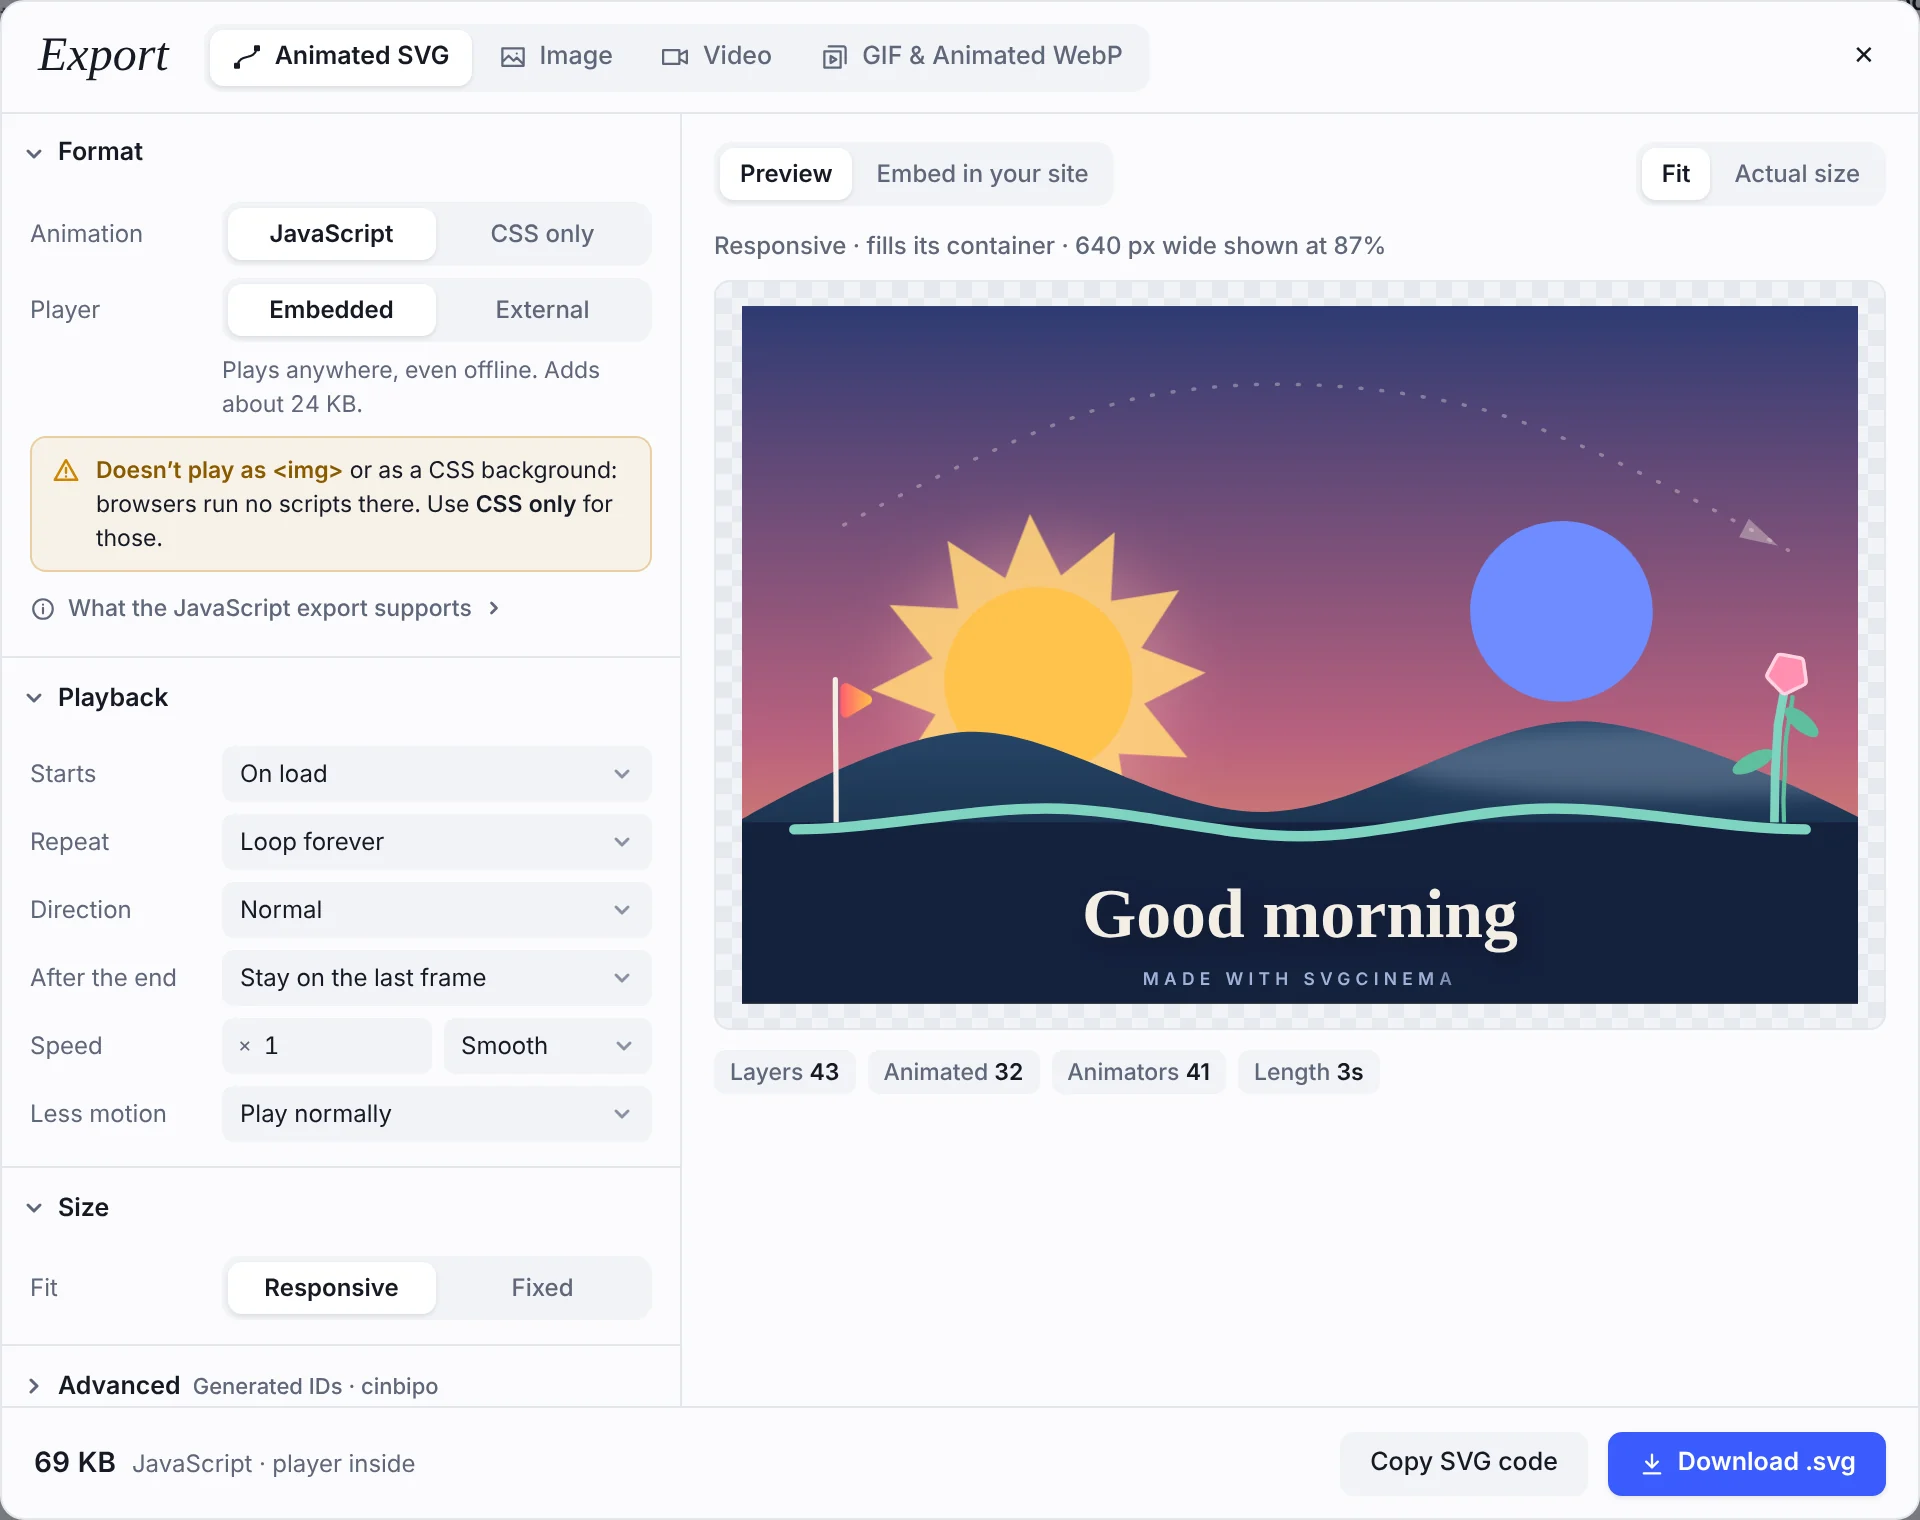
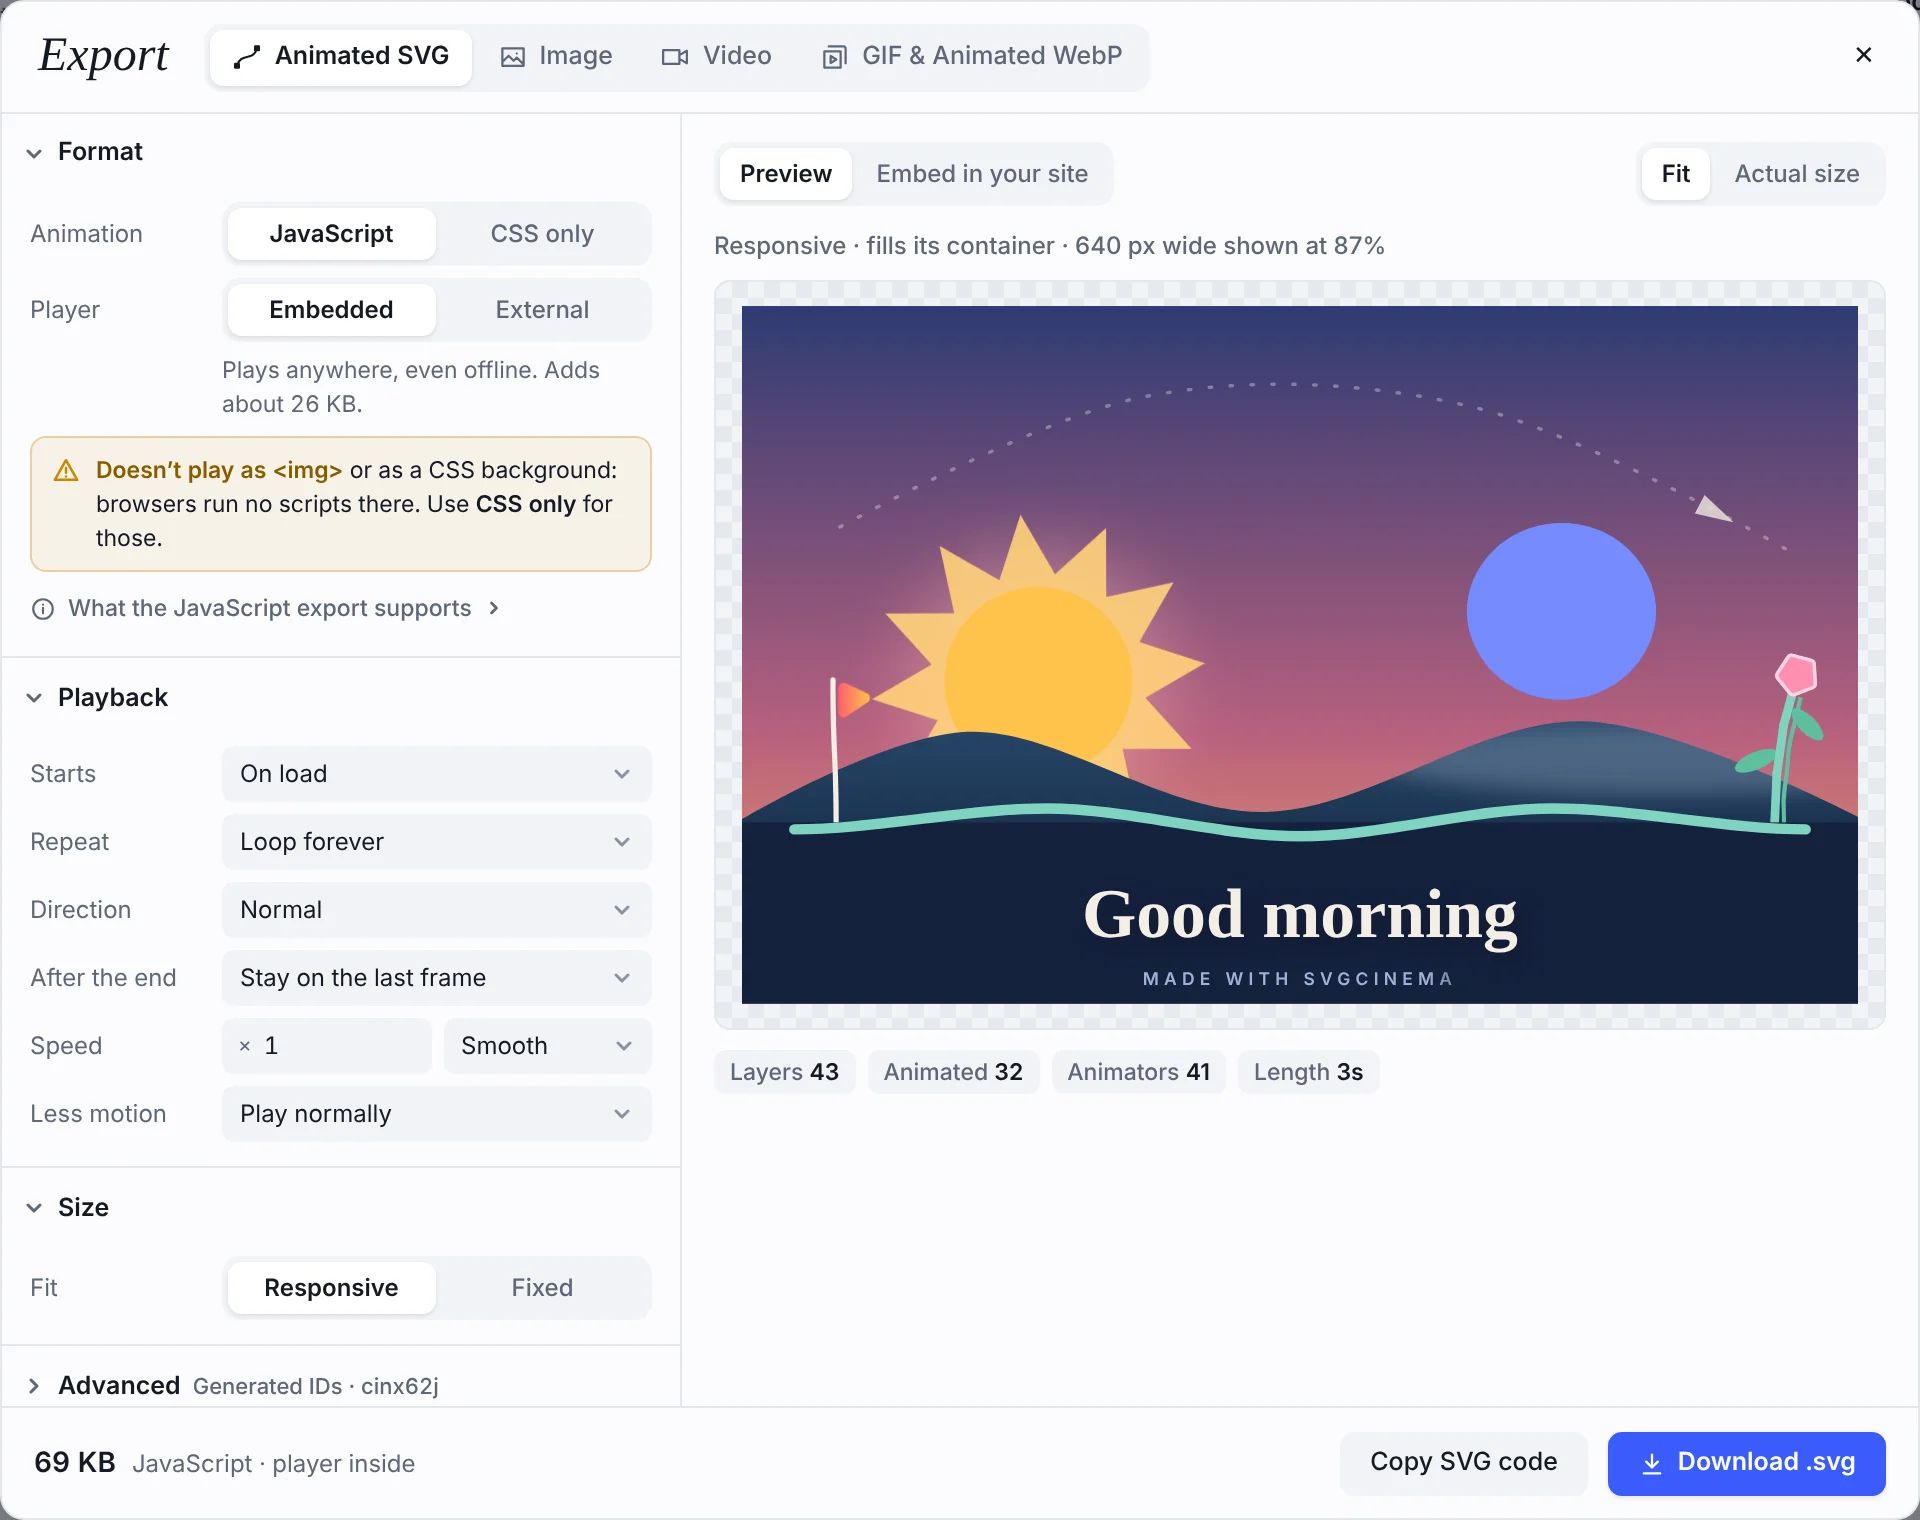
Player size: say about 26 KB, as the built player is
The Export window's Player note, the README, the website's Downloads and Export
pages, and the two export captures that show the note.

Claude-Session: https://claude.ai/code/session_01WVkNrity5kzZXDKRdaCppT

diff --git a/src/export/dialog.ts b/src/export/dialog.ts
@@ -60,8 +60,8 @@ export function syncExportUI() {
     .querySelectorAll('button')
     .forEach((b: HTMLElement) => b.classList.toggle('on', b.dataset.v === (ext ? 'external' : 'embed')));
   $('#xPlayerNote').textContent = ext
-    ? `Uses the page’s player, else loads svgcinema-player ${PLAYER_VERSION} from jsDelivr. Saves about 24 KB per SVG.`
-    : 'Plays anywhere, even offline. Adds about 24 KB.';
+    ? `Uses the page’s player, else loads svgcinema-player ${PLAYER_VERSION} from jsDelivr. Saves about 26 KB per SVG.`
+    : 'Plays anywhere, even offline. Adds about 26 KB.';
   const wf = doc.layers.filter(
       l => l.type === 'text' && !l.hid && (webFont(l.geo.family) || isLocalFamily(l.geo.family)),
     ),

diff --git a/site/downloads/index.html b/site/downloads/index.html
@@ -3903,7 +3903,7 @@ figcaption {
       <div class="frow">
         <span class="fn">cin-player.min.js</span>
         <span class="fd">The player, version 1.2.0</span>
-        <span class="fs">about 24 KB</span>
+        <span class="fs">about 26 KB</span>
         <a class="btn btn-pri btn-sm" href="../editor/downloads/cin-player.min.js" download
           ><svg
             width="16"

diff --git a/site/src/pages/downloads.html b/site/src/pages/downloads.html
@@ -398,7 +398,7 @@
       <div class="frow">
         <span class="fn">cin-player.min.js</span>
         <span class="fd">The player, version {{PLAYER_VERSION}}</span>
-        <span class="fs">about 24 KB</span>
+        <span class="fs">about 26 KB</span>
         <a class="btn btn-pri btn-sm" href="{{DL}}cin-player.min.js" download
           ><svg
             width="16"

diff --git a/site/export/index.html b/site/export/index.html
@@ -3770,7 +3770,7 @@ figcaption {
 <i>&lt;!-- or straight from the CDN --&gt;</i>
 &lt;script src=<b>"…/npm/svgcinema-player@1.2.0/cin-player.min.js"</b>&gt;&lt;/script&gt;
 
-<i>// about 24 KB minified, then shared by every SVG</i></code></pre>
+<i>// about 26 KB minified, then shared by every SVG</i></code></pre>
     </div>
 
     <div class="split" id="scroll">

diff --git a/site/src/pages/export.html b/site/src/pages/export.html
@@ -265,7 +265,7 @@
 <i>&lt;!-- or straight from the CDN --&gt;</i>
 &lt;script src=<b>"…/npm/svgcinema-player@{{PLAYER_VERSION}}/cin-player.min.js"</b>&gt;&lt;/script&gt;
 
-<i>// about 24 KB minified, then shared by every SVG</i></code></pre>
+<i>// about 26 KB minified, then shared by every SVG</i></code></pre>
     </div>
 
     <div class="split" id="scroll">

diff --git a/README.md b/README.md
@@ -415,13 +415,13 @@ Use the AI assistant you already pay for, such as Claude in Chrome or any assist
 
 ## The external player
 
-The Export dialog's **Player** row (Format section, JavaScript exports only) chooses **Embedded**, the default (the player inside each SVG: plays anywhere, even offline, about 24 KB), or **External**. An amber note under it reminds that a script export doesn't play as `<img>` or as a CSS background (export as CSS only for those); the footer says _player inside_ or _external player_ beside the file size.
+The Export dialog's **Player** row (Format section, JavaScript exports only) chooses **Embedded**, the default (the player inside each SVG: plays anywhere, even offline, about 26 KB), or **External**. An amber note under it reminds that a script export doesn't play as `<img>` or as a CSS background (export as CSS only for those); the footer says _player inside_ or _external player_ beside the file size.
 
 SVGs exported with **External** carry only their artwork and animation, as JSON in `<script type="application/json" data-cin>`, plus a loader of under 1 KB. Once the page has loaded, the loader uses the page's own player (`window.CinPlayer`) if it has one; otherwise the first SVG on the page loads it from jsDelivr, `https://cdn.jsdelivr.net/npm/svgcinema-player@<version>/cin-player.min.js` (the version is fixed in the address, so later player releases never change files already exported). Either way every animation on the page shares one player. A standalone `.svg` (or one in `<object>`) loads its own copy from jsDelivr.
 
 **Self-hosting:** the Embed tab's HTML code (with External) starts with an optional `<script src="YOUR-ADDRESS/cin-player.min.js">` line before the SVG pasted inline, and **Download the player (version)** next to _Copy snippet_ gets that file from the site's `downloads/` folder (`cin-player.min.js` and `cin-player-<version>.min.js`, with an index page; also on npm).
 
-The player is `src/runtime/player.ts`; `src/runtime/boot.ts` reads the JSON and wires the start trigger as the embedded player does. The JSON carries a data format number (`f`); a player only starts SVGs whose format it knows. `npm run build:player` (also part of `npm run build`) makes `player/cin-player.min.js`, about 24 KB minified.
+The player is `src/runtime/player.ts`; `src/runtime/boot.ts` reads the JSON and wires the start trigger as the embedded player does. The JSON carries a data format number (`f`); a player only starts SVGs whose format it knows. `npm run build:player` (also part of `npm run build`) makes `player/cin-player.min.js`, about 26 KB minified.
 
 **API:** each SVG's player is `svg.player` (also `svg.cinPlayer`), and the SVG fires `cinready` when it's ready. `window.CinPlayer` has `version`, `f` (the data format), `boot(svg)` (for SVGs added later by script) and `scan(root)`.
 
